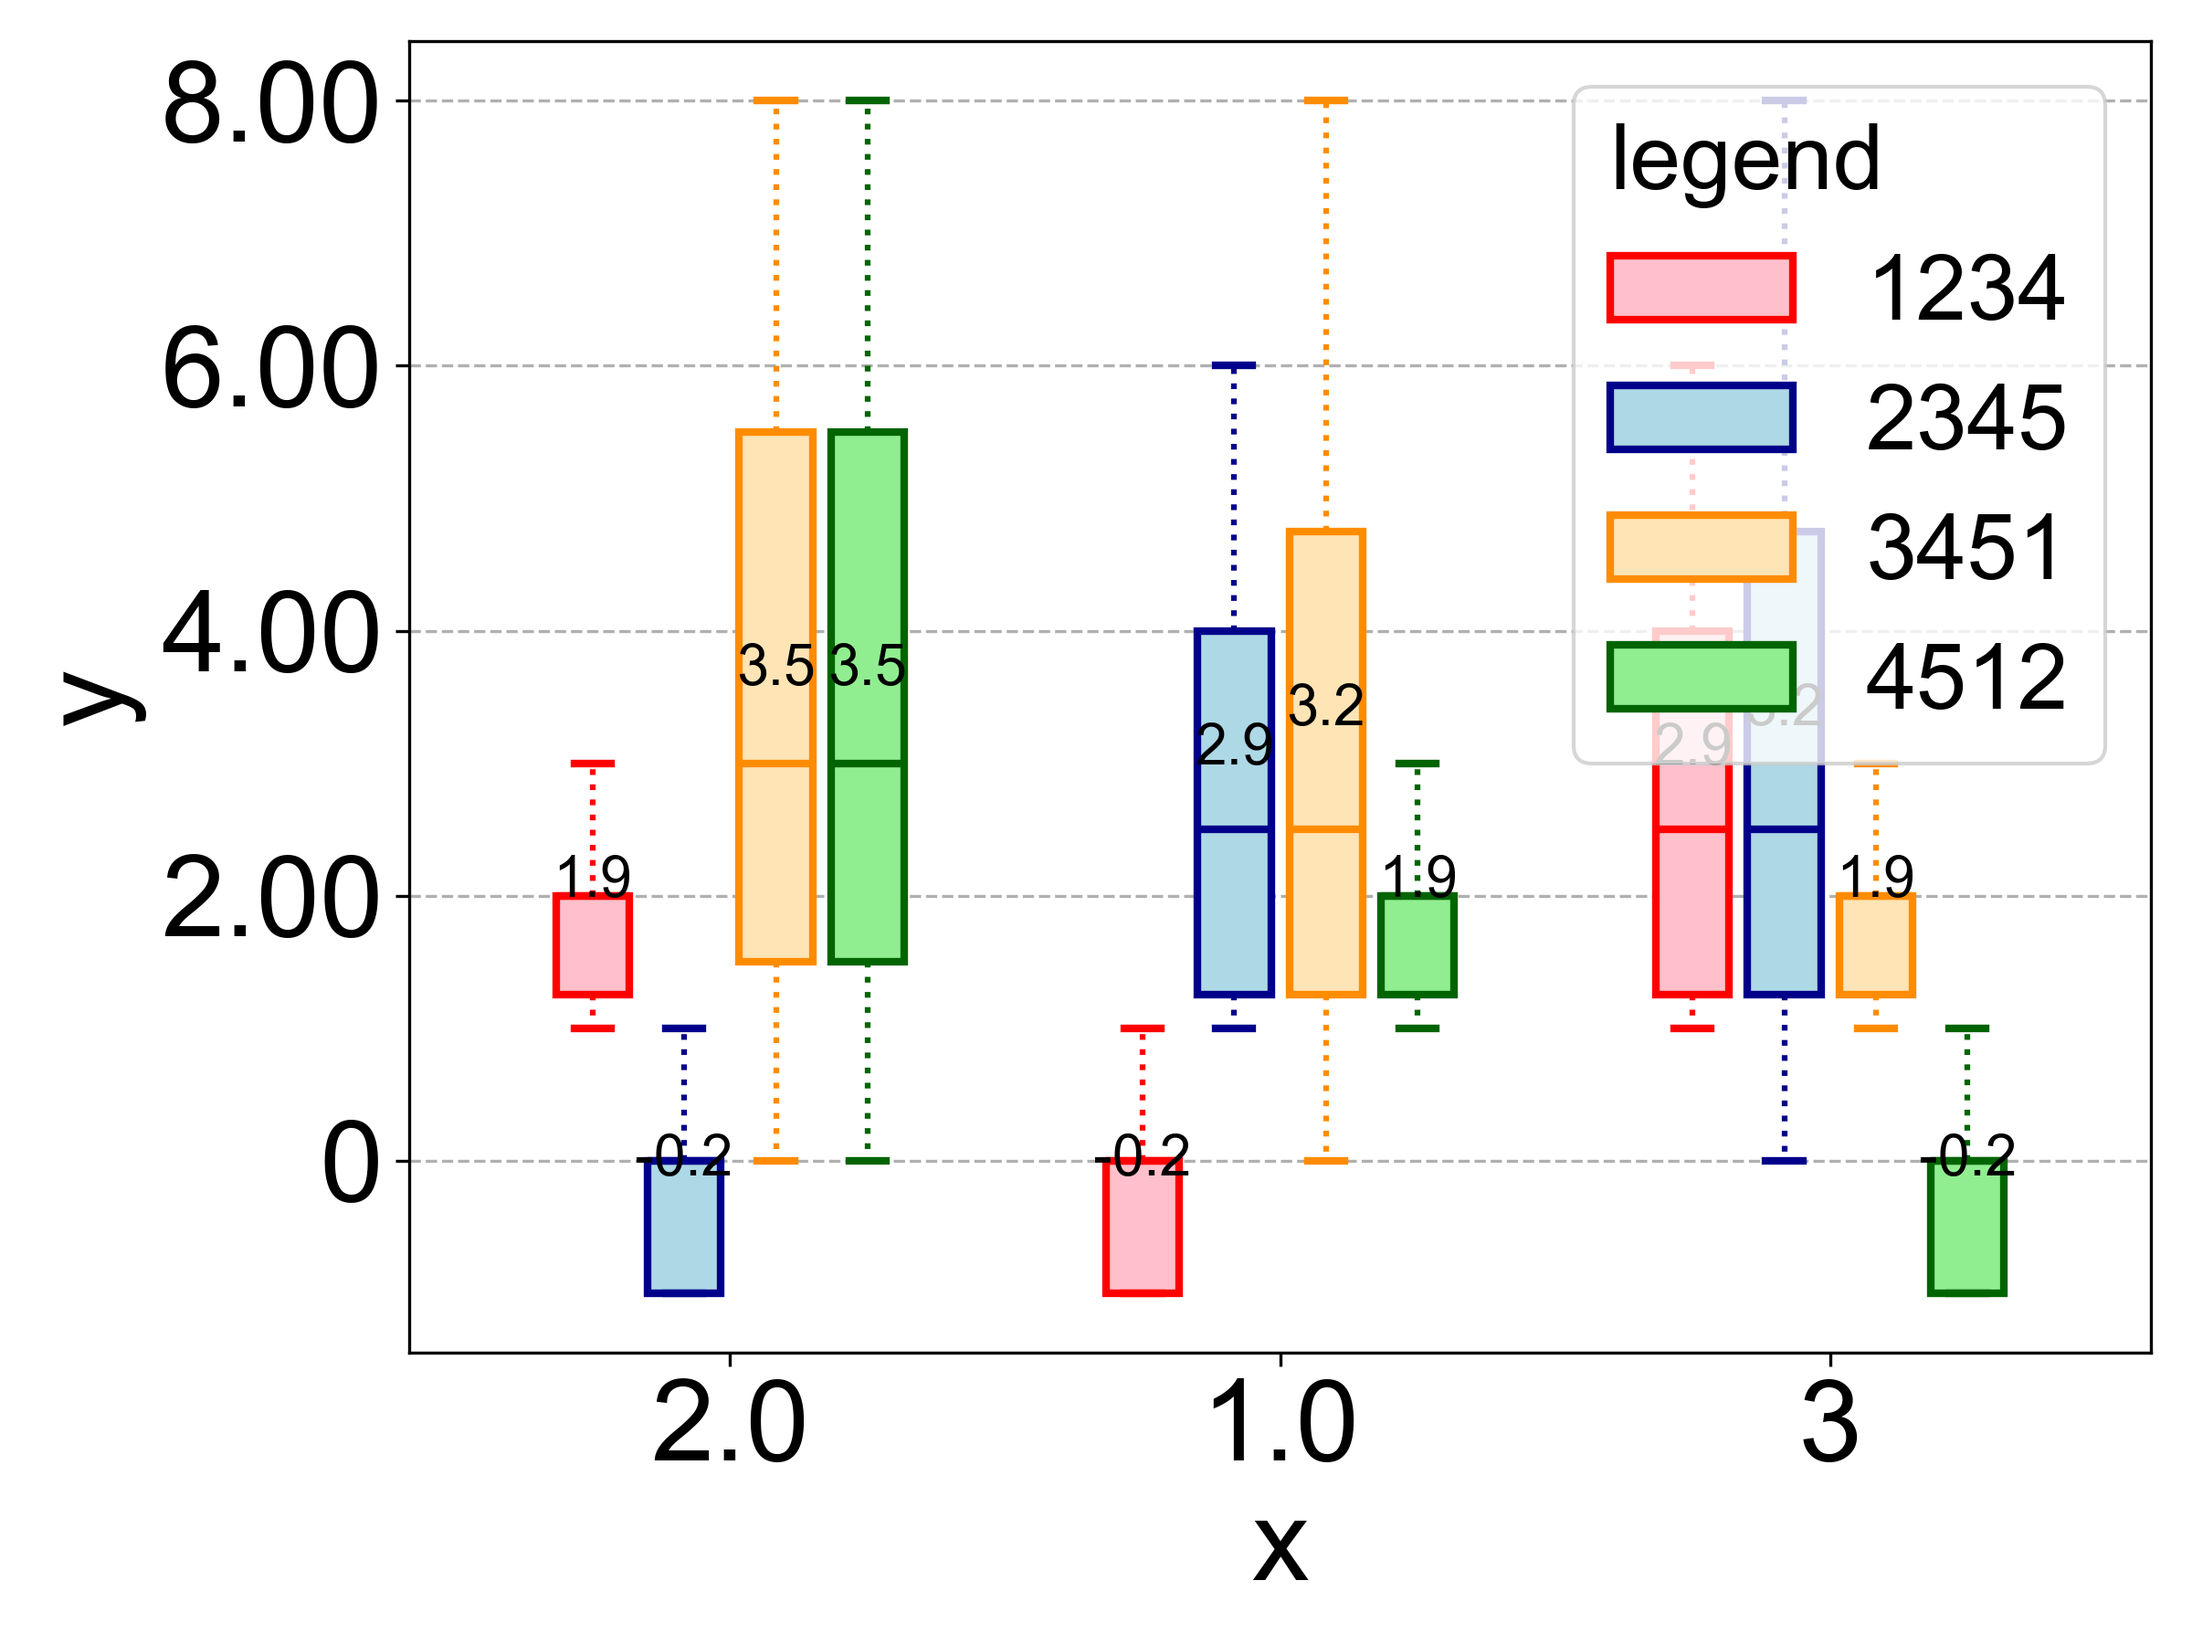
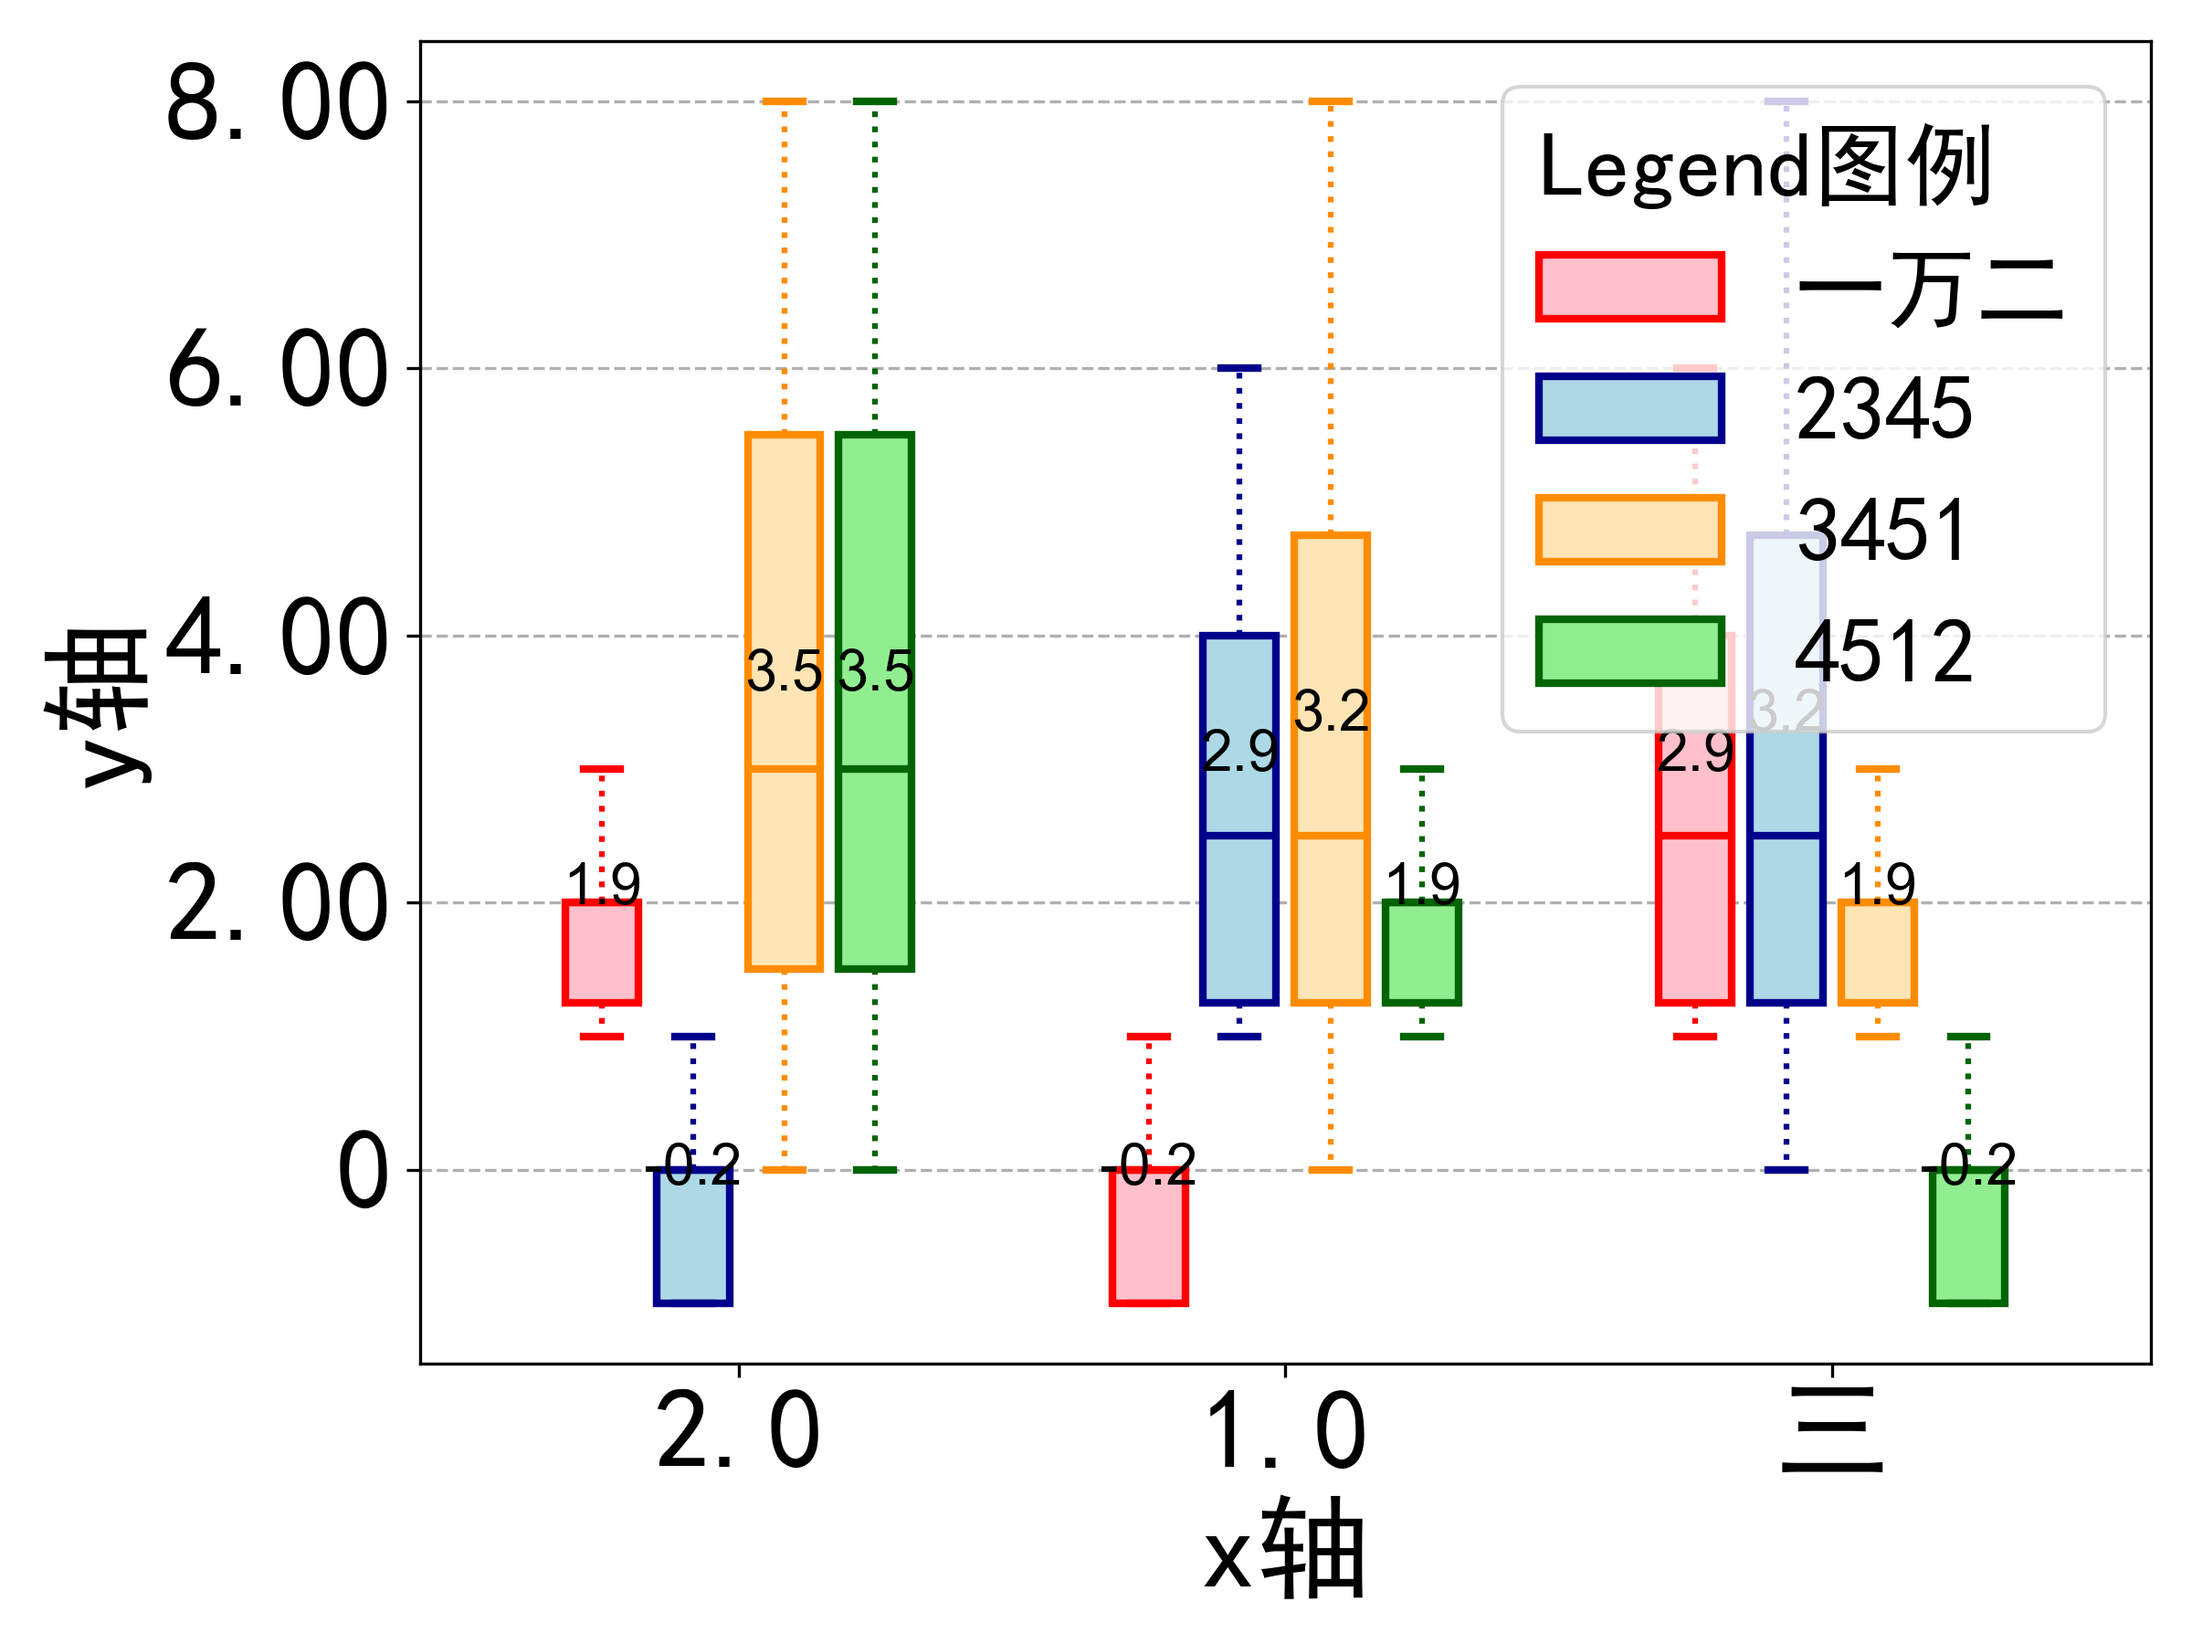
完成 box 第三方字体改造

diff --git a/py_plotter/plot.py b/py_plotter/plot.py
@@ -404,8 +404,10 @@ class Plotter(Pyplot_config):
         fig = plt.figure(figsize=self.figsize, dpi=300)
         ax = fig.add_subplot(111)
         ax.yaxis.grid(linestyle='dashed')
-        ax.set_ylabel(y_label, fontsize=self.label_size)
-        ax.set_xlabel(x_label, fontsize=self.label_size)
+        # 设置轴的标签字体和大小
+        font_property = FontProperties(fname=self.font_path, size=self.label_size)
+        ax.set_ylabel(y_label, fontproperties=font_property)
+        ax.set_xlabel(x_label, fontproperties=font_property)
 
         width = 0.2
         interval = width * 1.25
@@ -438,7 +440,7 @@ class Plotter(Pyplot_config):
         offset = interval * (len(legend_label_list) - 1) / 2
         ax.set_xticks([pos + offset for pos in position])
 
-        ax.set_xticklabels(x, fontsize=self.label_size, rotation=0)
+        ax.set_xticklabels(x, fontsize=self.label_size, rotation=0, fontproperties=font_property)
         ax.tick_params(axis='both', which='major', labelsize=self.label_size)
 
         # 让角标变0
@@ -446,13 +448,15 @@ class Plotter(Pyplot_config):
         y_formatter = CustomFormatter(ndigits=y_tick_ndigits)
         ax.yaxis.set_major_formatter(y_formatter)
 
-        plt.xticks(size=self.label_size)
-        plt.yticks(size=self.label_size)
+        plt.xticks(size=self.label_size, fontproperties=font_property)
+        plt.yticks(size=self.label_size, fontproperties=font_property)
 
+        # 创建图例
+        font_property_legend = FontProperties(fname=self.font_path, size=self.legend_size)
         legend = plt.legend(boxes, legend_label_list, fontsize=self.legend_size, title=legend_title, loc=legend_loc,
-                            ncol=legend_ncol,
-                            bbox_to_anchor=bbox_to_anchor)
-        legend.get_title().set_fontsize(fontsize=self.legend_size)
+                            ncol=legend_ncol, bbox_to_anchor=bbox_to_anchor, prop=font_property_legend)  # 设置图例项的字体属性
+        legend.get_title().set_fontsize(self.legend_size)  # 设置图例标题的字体大小
+        legend.get_title().set_font_properties(font_property_legend)  # 设置图例标题的字体属性
         legend._legend_box.align = "left"
 
         # 在图上显示box的平均值
@@ -461,10 +465,11 @@ class Plotter(Pyplot_config):
                 box_data = box_data_list[i]
                 for j in range(len(x)):
                     mean = np.mean(box_data[j])
-                    ax.text(float(position[j] + interval * i), mean, '%.1f' % mean, ha='center', va='bottom', fontsize=self.data_size)
+                    ax.text(float(position[j] + interval * i), mean, '%.1f' % mean, ha='center', va='bottom',
+                            fontsize=self.data_size)
 
         # 设置ylim
-        if y_min != None and y_max != None:
+        if y_min is not None and y_max is not None:
             plt.ylim(y_min, y_max)
 
         plt.tight_layout()

diff --git a/py_plotter/example.py b/py_plotter/example.py
@@ -145,12 +145,13 @@ if __name__ == "__main__":
     )
 
     my_plotter.plot_boxes(
-        x=["2.0", "1.0", "3",],
+        x=["2.0", "1.0", "三",],
         box_data_list=[[y1, y2, y3], [y2, y3, y5], [y4, y5, y1], [y4, y1, y2]],
-        legend_label_list=["1234", "2345", "3451", "4512"],
-        x_label="x",
-        y_label="y",
+        legend_label_list=["一万二", "2345", "3451", "4512"],
+        x_label="x轴",
+        y_label="y轴",
         is_data_label=True,
+        legend_title="Legend图例",
         save_root="./results",
         filename="plot_boxes_demo"
     )
